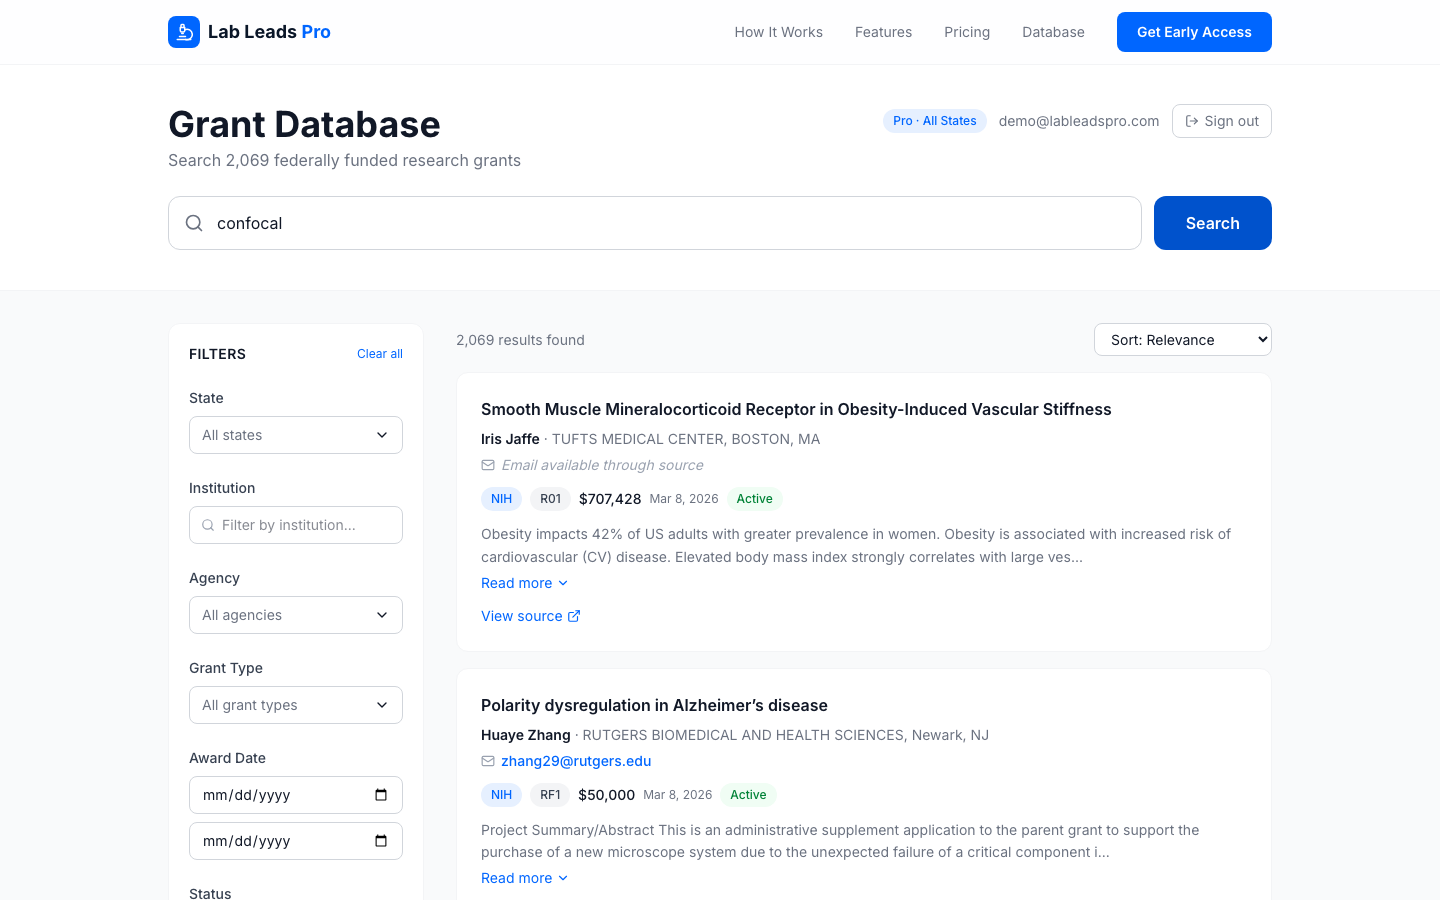
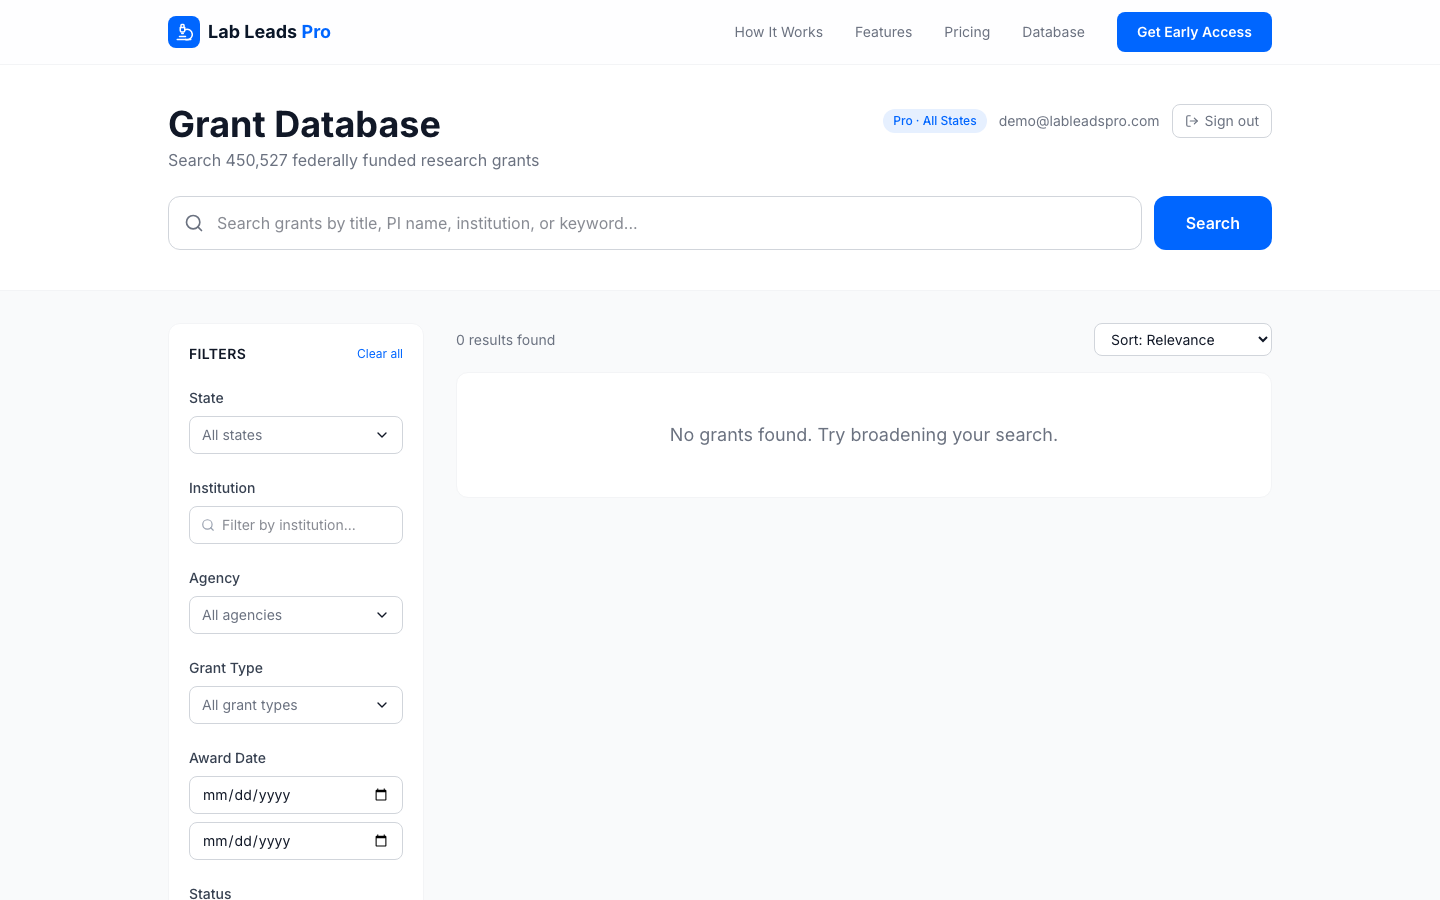
Don't auto-search on page load - show clean welcome state
The unfiltered 450K row query times out on Vercel serverless.
Show the welcome message instead, let user search or filter first.

diff --git a/src/app/sitemap.ts b/src/app/sitemap.ts
@@ -4,11 +4,19 @@ export default function sitemap(): MetadataRoute.Sitemap {
   const baseUrl = "https://lableadspro.com";
 
   return [
+    // Homepage
     {
       url: baseUrl,
       lastModified: new Date(),
       changeFrequency: "weekly",
       priority: 1,
+    },
+    // Core product pages
+    {
+      url: `${baseUrl}/sample`,
+      lastModified: new Date(),
+      changeFrequency: "monthly",
+      priority: 0.9,
     },
     {
       url: `${baseUrl}/checkout`,
@@ -16,6 +24,99 @@ export default function sitemap(): MetadataRoute.Sitemap {
       changeFrequency: "monthly",
       priority: 0.8,
     },
+    // Database section
+    {
+      url: `${baseUrl}/database`,
+      lastModified: new Date(),
+      changeFrequency: "weekly",
+      priority: 0.9,
+    },
+    {
+      url: `${baseUrl}/database/search`,
+      lastModified: new Date(),
+      changeFrequency: "weekly",
+      priority: 0.8,
+    },
+    {
+      url: `${baseUrl}/database/login`,
+      lastModified: new Date(),
+      changeFrequency: "monthly",
+      priority: 0.5,
+    },
+    {
+      url: `${baseUrl}/database/signup`,
+      lastModified: new Date(),
+      changeFrequency: "monthly",
+      priority: 0.6,
+    },
+    // Guides — high SEO value, educational content
+    {
+      url: `${baseUrl}/database/guides/how-to-use`,
+      lastModified: new Date(),
+      changeFrequency: "monthly",
+      priority: 0.8,
+    },
+    {
+      url: `${baseUrl}/database/guides/agencies`,
+      lastModified: new Date(),
+      changeFrequency: "monthly",
+      priority: 0.7,
+    },
+    {
+      url: `${baseUrl}/database/guides/grant-types`,
+      lastModified: new Date(),
+      changeFrequency: "monthly",
+      priority: 0.7,
+    },
+    {
+      url: `${baseUrl}/database/guides/nih-institutes`,
+      lastModified: new Date(),
+      changeFrequency: "monthly",
+      priority: 0.7,
+    },
+    {
+      url: `${baseUrl}/database/guides/nsf-grants`,
+      lastModified: new Date(),
+      changeFrequency: "monthly",
+      priority: 0.7,
+    },
+    {
+      url: `${baseUrl}/database/guides/dod-grants`,
+      lastModified: new Date(),
+      changeFrequency: "monthly",
+      priority: 0.7,
+    },
+    {
+      url: `${baseUrl}/database/guides/doe-grants`,
+      lastModified: new Date(),
+      changeFrequency: "monthly",
+      priority: 0.7,
+    },
+    {
+      url: `${baseUrl}/database/guides/nasa-grants`,
+      lastModified: new Date(),
+      changeFrequency: "monthly",
+      priority: 0.7,
+    },
+    {
+      url: `${baseUrl}/database/guides/usda-grants`,
+      lastModified: new Date(),
+      changeFrequency: "monthly",
+      priority: 0.7,
+    },
+    {
+      url: `${baseUrl}/database/guides/cdc-grants`,
+      lastModified: new Date(),
+      changeFrequency: "monthly",
+      priority: 0.7,
+    },
+    {
+      url: `${baseUrl}/database/guides/va-grants`,
+      lastModified: new Date(),
+      changeFrequency: "monthly",
+      priority: 0.7,
+    },
+    // Legal
     {
       url: `${baseUrl}/privacy`,
       lastModified: new Date(),
@@ -29,10 +130,10 @@ export default function sitemap(): MetadataRoute.Sitemap {
       priority: 0.3,
     },
     {
-      url: `${baseUrl}/sample`,
+      url: `${baseUrl}/unsubscribe`,
       lastModified: new Date(),
-      changeFrequency: "monthly",
-      priority: 0.9,
+      changeFrequency: "yearly",
+      priority: 0.1,
     },
   ];
 }

diff --git a/src/app/database/search/page.tsx b/src/app/database/search/page.tsx
@@ -214,12 +214,12 @@ export default function DatabasePage() {
     return () => document.removeEventListener("mousedown", handleClick);
   }, []);
 
-  // Load initial results on page load
+  // Don't auto-search on page load - show welcome state instead
   const initialLoadDone = useRef(false);
   useEffect(() => {
     if (!initialLoadDone.current) {
       initialLoadDone.current = true;
-      doSearch(1);
+      // Skip initial search - let user enter a query or apply filters first
     }
   // eslint-disable-next-line react-hooks/exhaustive-deps
   }, []);
